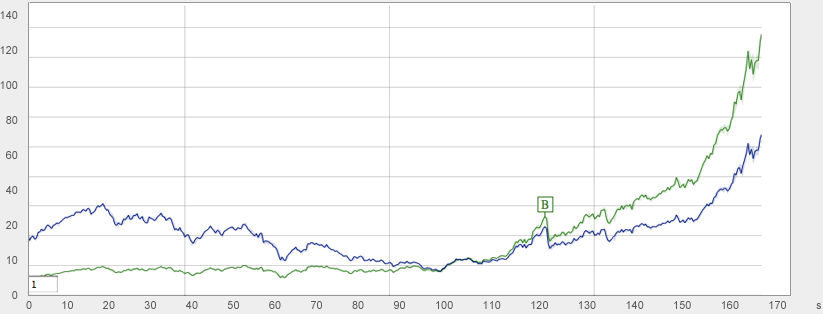
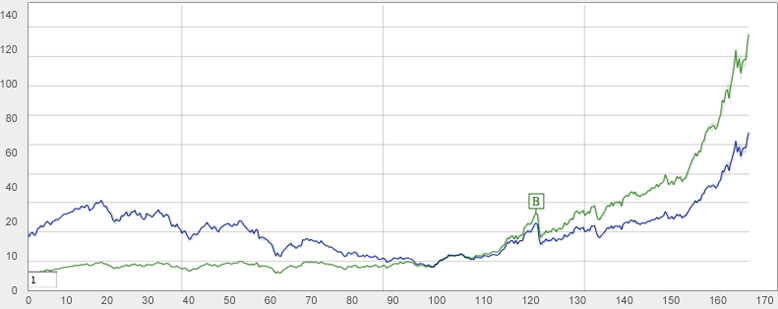
NFT trend graph modal dialog button + layout

diff --git a/public/stylesheets/screen.css b/public/stylesheets/screen.css
@@ -1628,6 +1628,9 @@ td.fail {
 	color: #aaa;
 	font-size:0.91666em;}
 
+a:hover .unit {
+	color: #000;}
+
 #test_results .sort {
     margin-left: 3em;}
 
@@ -1680,21 +1683,31 @@ table.nft_graph_key_figures {
 width: 35px;
 }
 
+.nft_trend_button {
+	padding-right: 17px;
+	background: transparent no-repeat right 2px url(../images/nft_trend_icon.png);
+	text-decoration:none;}
+
+.nft_trend_button:hover {
+	background-image: url(../images/nft_trend_icon_hover.png);
+	cursor: pointer;
+}
+
 .testcase_graph canvas {
 	cursor: pointer;
 }
 
 .nft_drilldown_modal_window {
 	width: 800px;
-	padding: 40px;
+	padding: 14px 40px 40px;
 	margin-left: -440px;
 }
 
 #nft_drilldown_graph {
-        width: 823px;
-        height: 314px;
-        padding: 10px;
-        border: 1px solid #b2b2b2;
+  width: 778px;
+  height: 314px;
+  padding: 10px;
+  border: 1px solid #b2b2b2;
 }
 
 .modal_close {
